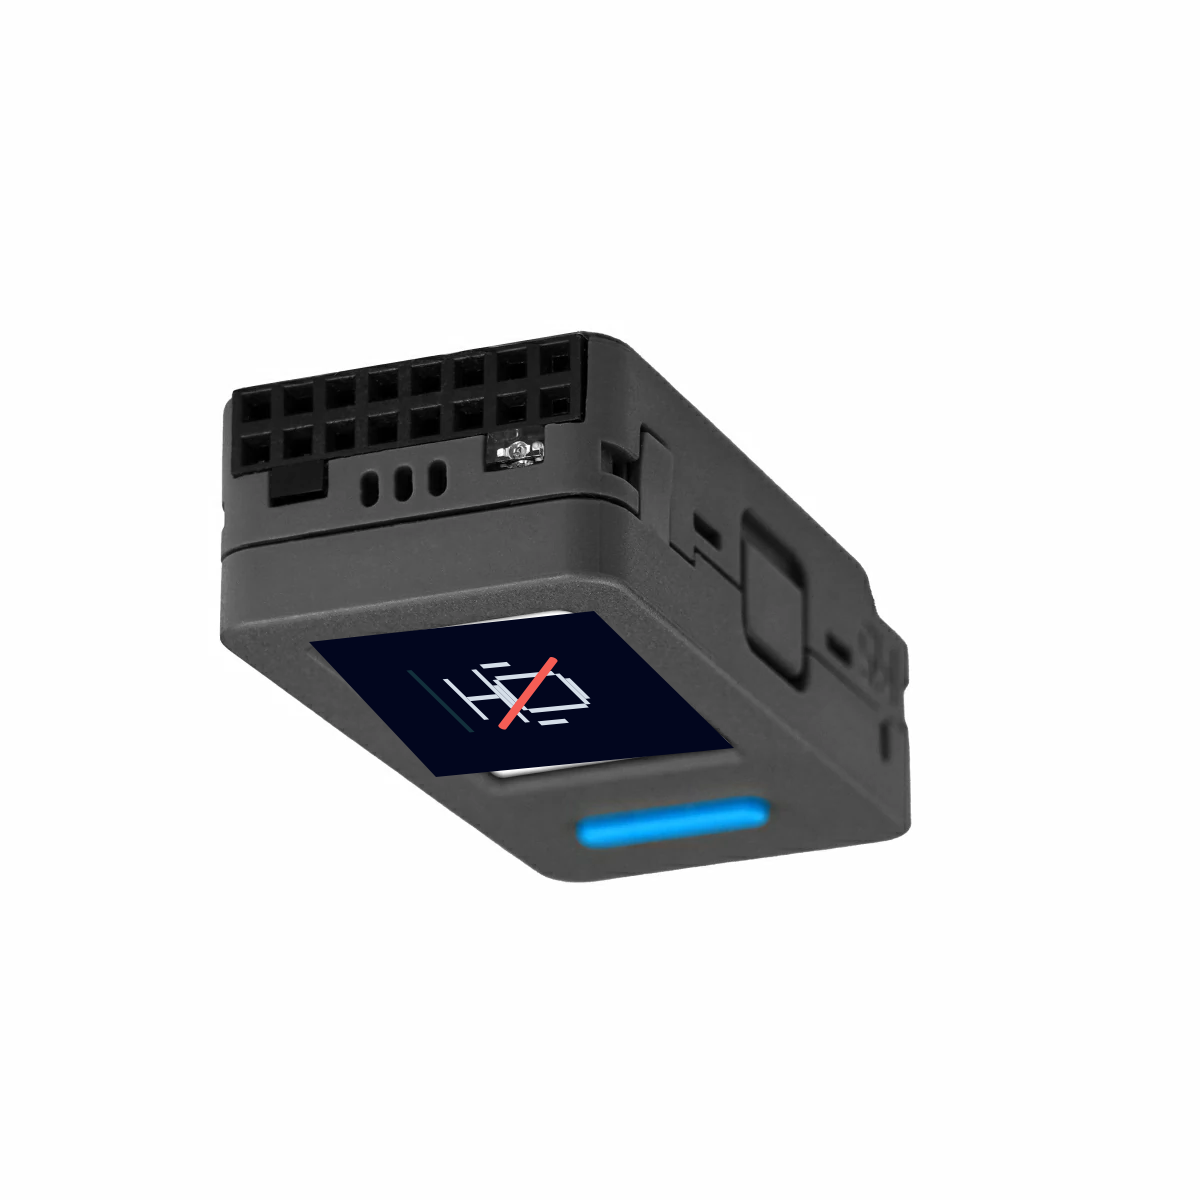
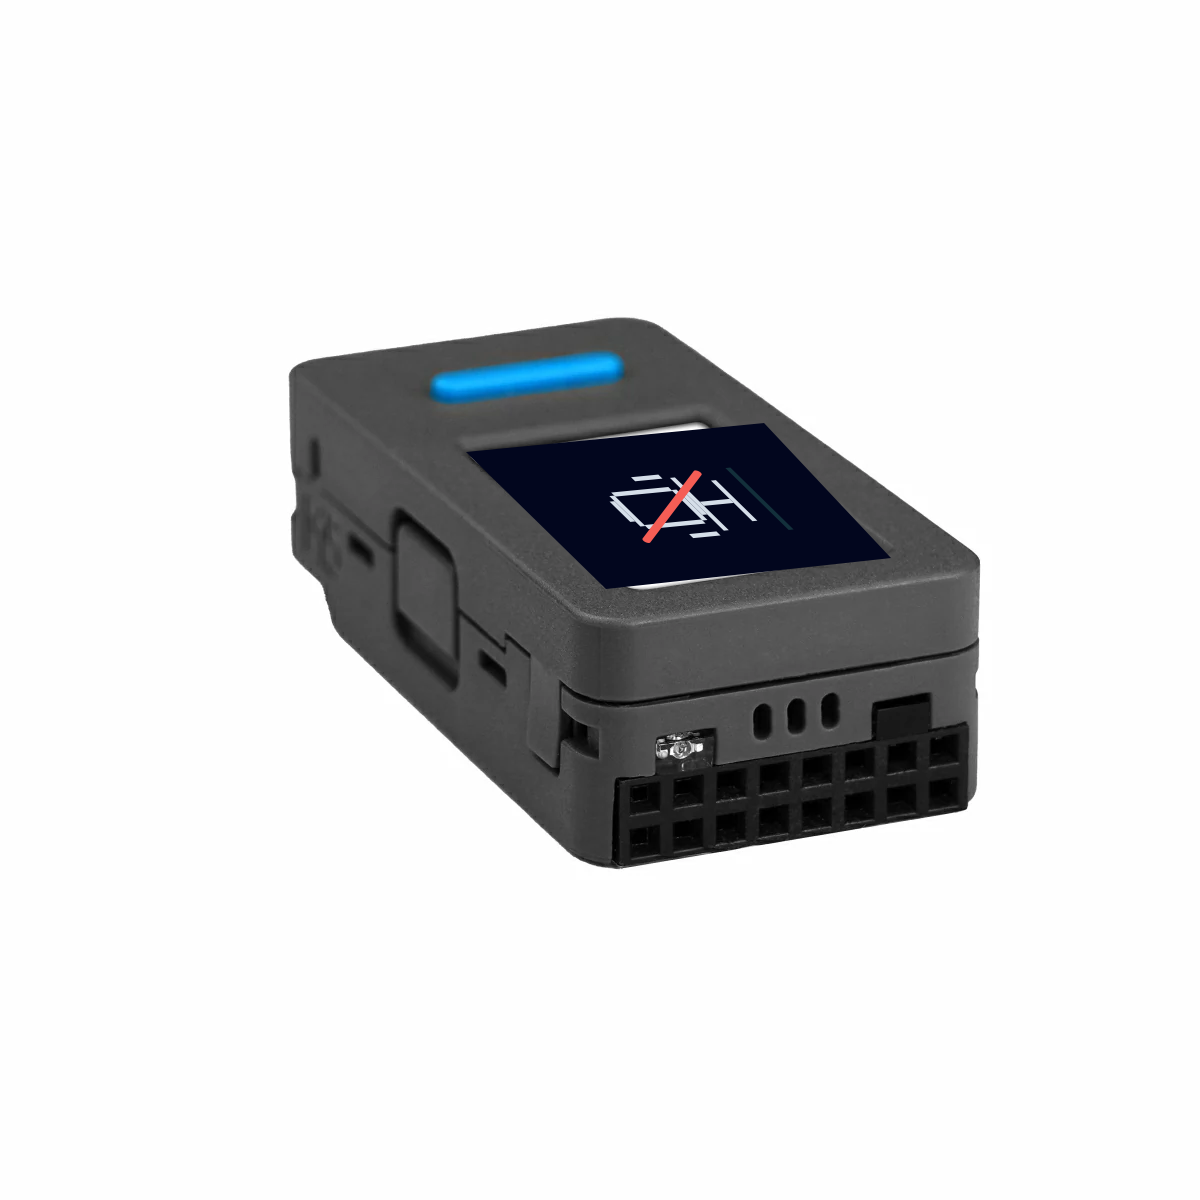
Keep flat device screen facing up

Changed region(s): [[0.185, 0.2467, 0.8325, 0.74]]

diff --git a/tools/draw-doc-assets.swift b/tools/draw-doc-assets.swift
@@ -58,21 +58,6 @@ private func writePNG(_ image: CGImage, to url: URL) throws {
   }
 }
 
-private func rotateHalfTurn(_ image: CGImage) throws -> CGImage {
-  let width = image.width
-  let height = image.height
-  let context = try makeContext(width: width, height: height)
-  context.translateBy(x: CGFloat(width), y: CGFloat(height))
-  context.rotate(by: .pi)
-  context.draw(image, in: CGRect(x: 0, y: 0, width: width, height: height))
-  guard let rotated = context.makeImage() else {
-    throw NSError(domain: "voxstick-doc-assets", code: 5, userInfo: [
-      NSLocalizedDescriptionKey: "Could not rotate rendered image"
-    ])
-  }
-  return rotated
-}
-
 private func fillRoundedRect(_ context: CGContext, rect: CGRect, radius: CGFloat, color: CGColor) {
   context.setFillColor(color)
   context.addPath(CGPath(roundedRect: rect, cornerWidth: radius, cornerHeight: radius, transform: nil))
@@ -216,7 +201,7 @@ private func drawFlatAsset(to output: URL) throws {
   context.restoreGState()
 
   guard let image = context.makeImage() else { return }
-  try writePNG(try rotateHalfTurn(image), to: output)
+  try writePNG(image, to: output)
 }
 
 let outputDirectory = URL(fileURLWithPath: CommandLine.arguments.dropFirst().first ?? "docs/assets")